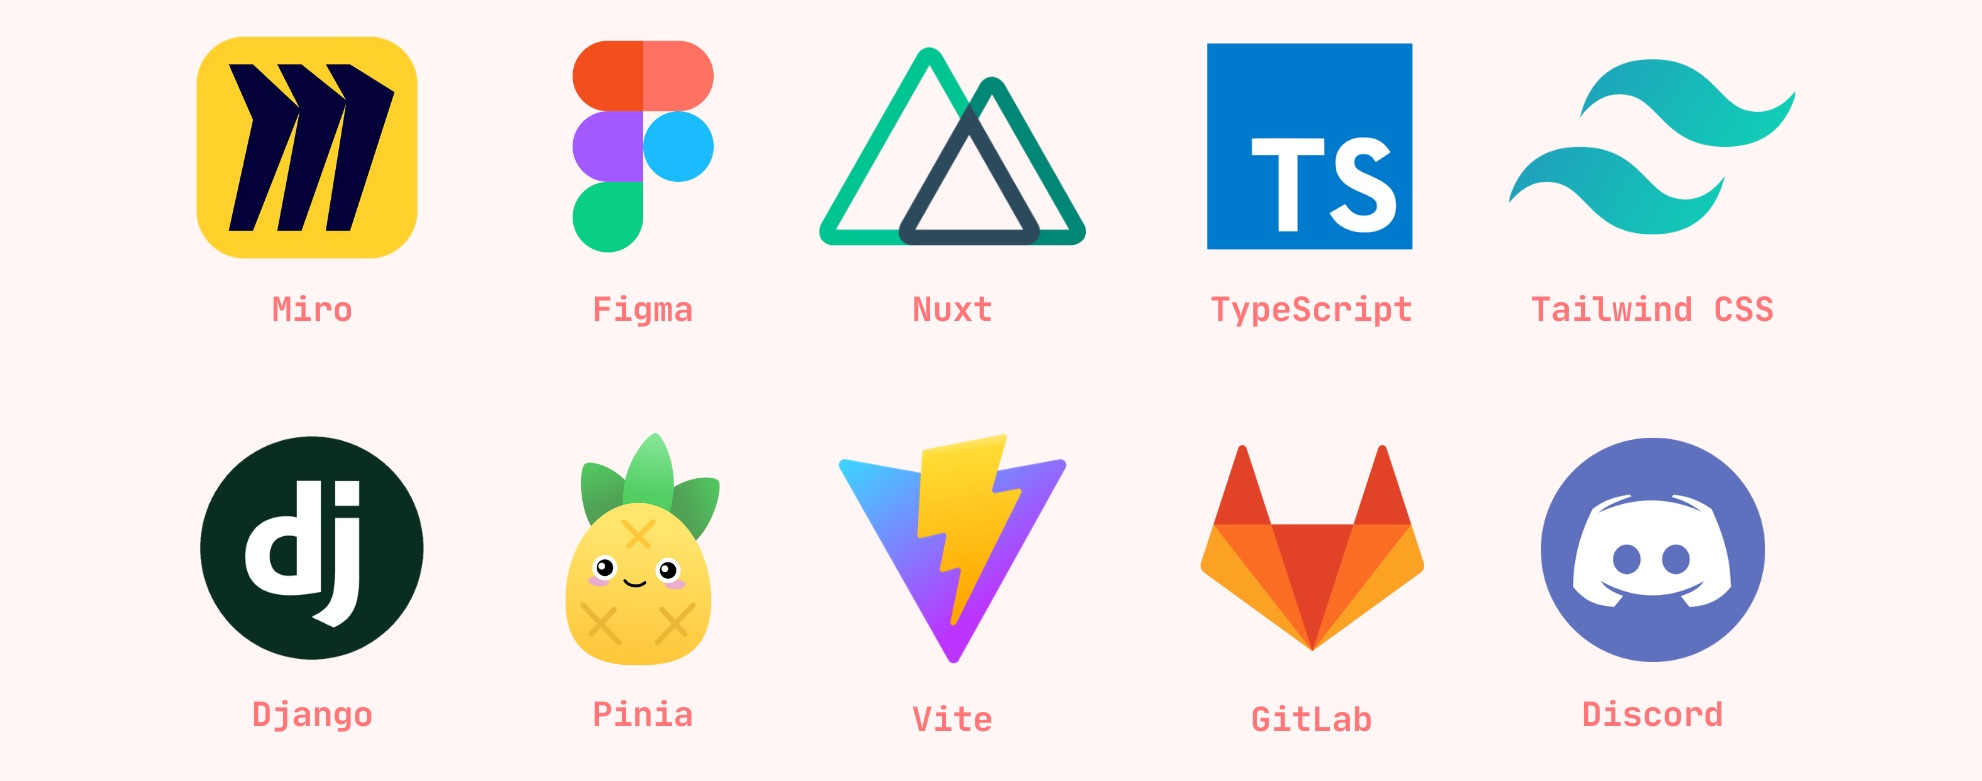
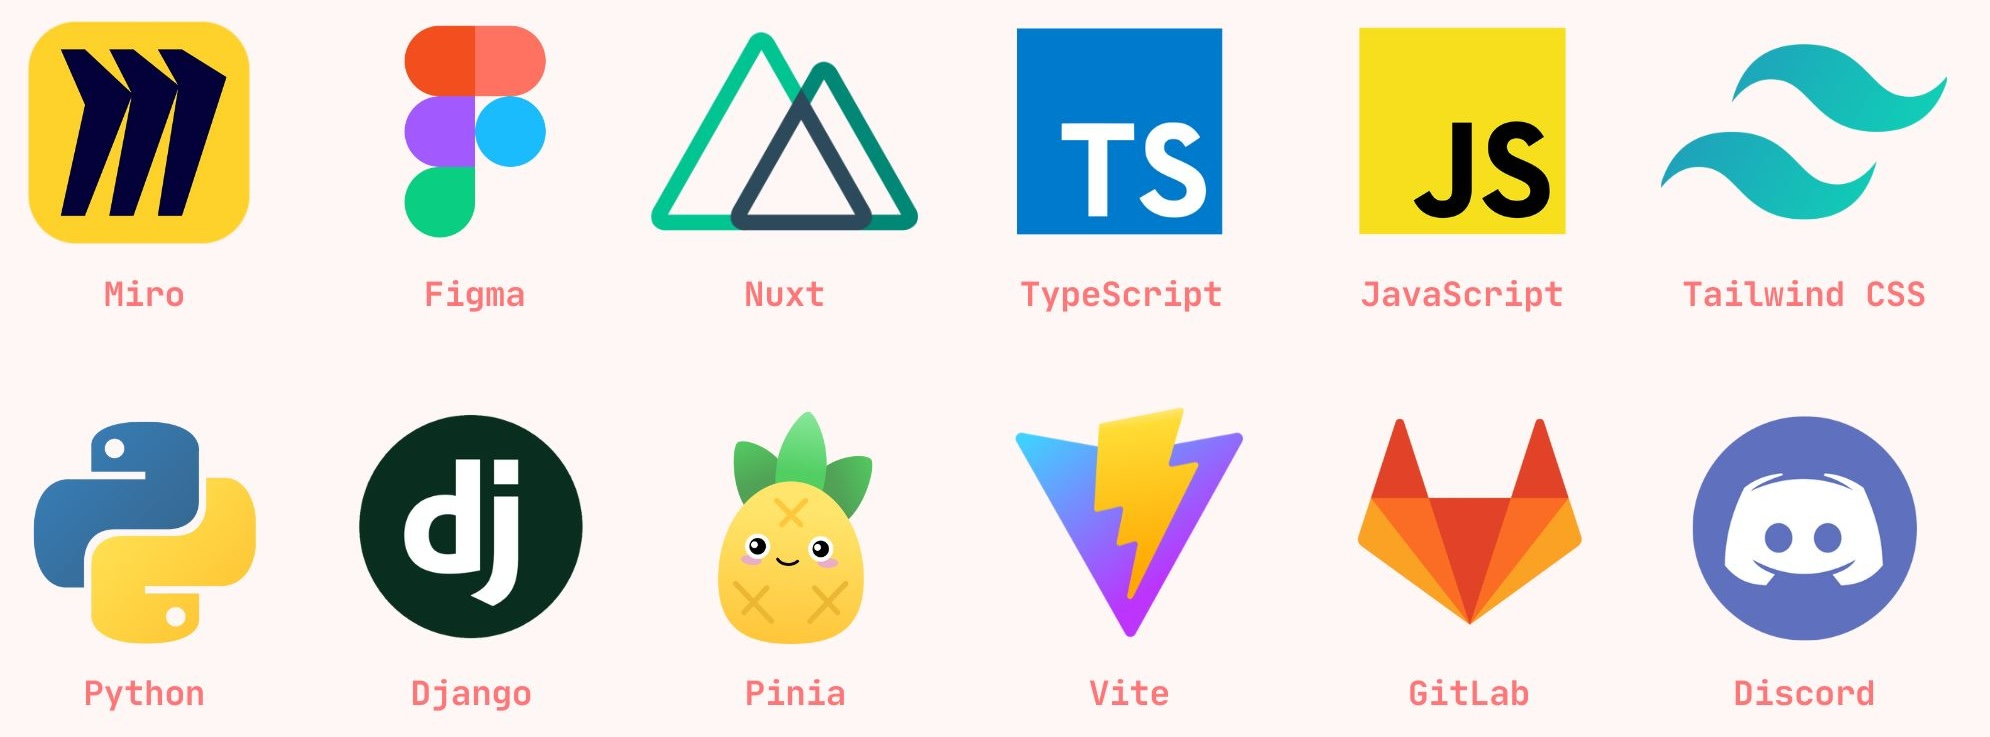
add javascript and python to techstack

diff --git a/content/ws24/master/m3-ergovision/techstack.md b/content/ws24/master/m3-ergovision/techstack.md
@@ -7,10 +7,10 @@ draft = false
 {{<image src="techstack.jpeg" alt="VeloScape's Tech Stack">}}
 {{<section title="Concept & Design">}}
 [Miro](https://miro.com/)<br>
-Miro was used for the initial brainstorming session, for concretizing the requirements and concept, and for the wireframes. It allowed the team to discuss and visualize ideas and record decisions.
+Miro was used for the initial brainstorming session, for concretising the requirements and concept, and for the wireframes. It allowed the team to discuss and visualise ideas and record decisions.
 
 [Figma](https://figma.com/)<br>
-Figma was used to create the UI component library, styleguide and final design of the user interface of VeloScape.
+Figma was used to create the UI component library, style guide and final design of the user interface of VeloScape.
 {{</section>}}
 
 {{<section title="Development">}}
@@ -19,18 +19,24 @@ Nuxt is a powerful Vue.js framework that simplifies the development of universal
 
 By harnessing Nuxt, the team was able to create reusable UI components, accelerate development speed, and deliver a modern and intuitive web application, enhancing the overall user experience.
 
+[JavaScript](https://developer.mozilla.org/en-US/docs/Web/JavaScript)<br>
+JavaScript is a versatile and widely used programming language that enables the development of interactive and dynamic web applications. By leveraging JavaScript, the team was able to create engaging and responsive user interfaces, implement complex logic, and enhance the functionality of VeloScape.
+
 [TypeScript](https://typescriptlang.org)<br>
 TypeScript is a powerful superset of JavaScript and introduces static typing. With TypeScript, errors can be caught early during development, leading to more reliable and maintainable code. The enhanced tooling support, including code autocompletion and refactoring suggestions, also contributes to increased productivity.
 TypeScript also ensures better collaboration among team members, improves code readability, and helps to confidently build and scale large, complex applications.
 
 [Tailwind CSS](https://tailwindcss.com)<br>
-Tailwind CSS is a preferred utility-first CSS framework for building stylish and responsive user interfaces. By providing a comprehensive set of low-level utilities, it makes it easy to create and customize consistent, visually appealing UI components, and enhancing the overall efficiency of the development process.
+Tailwind CSS is a preferred utility-first CSS framework for building stylish and responsive user interfaces. By providing a comprehensive set of low-level utilities, it makes it easy to create and customise consistent, visually appealing UI components, and enhances the overall efficiency of the development process.
 
 [Vite](https://vitejs.dev)<br>
-Vite is used as a modern build tool and development server that significantly enhances the web development workflow. Vite's fast development server with instant hot module replacement enables rapid iteration and provides quick feedback during the development process. Its efficient build process, leveraging native ES modules for production, leads to optimized and high-performance web applications.
+Vite is used as a modern build tool and development server that significantly enhances the web development workflow. Vite's fast development server with instant hot module replacement enables rapid iteration and provides quick feedback during the development process. Its efficient build process, leveraging native ES modules for production, leads to optimised and high-performance web applications.
 
 [Pinia](https://pinia.esm.dev)<br>
 Pinia is a modern and lightweight alternative to Vuex for Vue 3. It provides a simple and intuitive API for managing the state of the application, making it easier to build scalable and maintainable applications.
+
+[Python](https://python.org)<br>
+Python is a versatile and high-level programming language that is widely used for web development, data analysis, artificial intelligence, and scientific computing. By leveraging Python, the team was able to build the backend of VeloScape, implement complex business logic, and ensure seamless communication between the frontend and the database.
 
 [Django](https://djangoproject.com)<br>
 Django is a high-level Python web framework that encourages rapid development and clean, pragmatic design. It follows the DRY (Don't Repeat Yourself) principle and focuses on automating as much as possible. By leveraging Django, the team was able to build a robust and scalable backend for VeloScape, ensuring efficient data management and seamless integration with the frontend.
@@ -38,7 +44,7 @@ Django is a high-level Python web framework that encourages rapid development an
 
 {{<section title="Codebase & Communication">}}
 [GitLab](https://gitlab.com)<br>
-GitLab served as the chosen platform for managing the project's codebase, with both a repository for the backend and the frontend. The built-in Kanban feature helped to create tickets and keep track of todos
+GitLab served as the chosen platform for managing the project's codebase, with both a repository for the backend and the frontend. The built-in Kanban feature helped to create tickets and keep track of todos.
 
 [Discord](https://discord.com)<br>
 Discord served as the primary tool for communication, offering structured channels for discussions and video calls throughout the project's duration.
